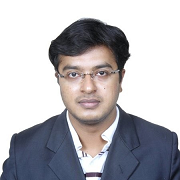
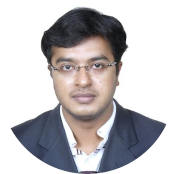
Make self image circular

diff --git a/doc/build/html/searchindex.js b/doc/build/html/searchindex.js
@@ -1,1 +1,1 @@
-Search.setIndex({docnames:["index"],envversion:{"sphinx.domains.c":2,"sphinx.domains.changeset":1,"sphinx.domains.citation":1,"sphinx.domains.cpp":2,"sphinx.domains.index":1,"sphinx.domains.javascript":2,"sphinx.domains.math":2,"sphinx.domains.python":2,"sphinx.domains.rst":2,"sphinx.domains.std":1,sphinx:56},filenames:["index.rst"],objects:{},objnames:{},objtypes:{},terms:{activ:0,administr:0,also:0,amount:0,applic:0,author:[],back:0,backbonej:0,backend:0,baremet:0,basic:0,been:0,complex:0,contribut:0,copyright:[],core:0,design:0,develop:0,devop:0,distribut:0,docker:0,experi:0,frontend:0,gitlab:0,had:0,have:0,implement:0,index:[],initi:0,iron:0,java:0,knowledg:0,kubernet:0,licens:[],like:0,linux:0,modul:[],moreov:0,most:0,mostli:0,opensourc:0,openstack:0,plai:0,project:0,proliantutil:0,provis:0,python:0,rai:[],review:0,role:0,server:0,signific:0,site:[],softwar:0,sometim:0,spent:0,start:0,subproject:0,sushi:0,system:0,time:0,work:0,year:0},titles:["Career Profile"],titleterms:{about:[],career:0,debayan:[],document:[],indic:[],info:0,more:0,page:[],profil:0,project:[],resourc:[],tabl:[],welcom:[]}})
+Search.setIndex({docnames:["index"],envversion:{"sphinx.domains.c":2,"sphinx.domains.changeset":1,"sphinx.domains.citation":1,"sphinx.domains.cpp":2,"sphinx.domains.index":1,"sphinx.domains.javascript":2,"sphinx.domains.math":2,"sphinx.domains.python":2,"sphinx.domains.rst":2,"sphinx.domains.std":1,sphinx:56},filenames:["index.rst"],objects:{},objnames:{},objtypes:{},terms:{activ:0,administr:0,also:0,amount:0,applic:0,author:[],back:0,backbonej:0,backend:0,baremet:0,basic:0,been:0,complex:0,contribut:0,copyright:[],core:0,design:0,develop:0,devop:0,distribut:0,docker:0,experi:0,frontend:0,gitlab:0,had:0,have:0,implement:0,index:[],initi:0,iron:0,java:0,knowledg:0,kubernet:0,licens:[],like:0,linux:0,modul:[],moreov:0,most:0,mostli:0,opensourc:0,openstack:0,plai:0,predominantli:0,project:0,proliantutil:0,provis:0,python:0,rai:[],review:0,role:0,server:0,signific:0,site:[],softwar:0,sometim:0,spent:0,start:0,subproject:0,sushi:0,system:0,time:0,work:0,year:0},titles:["Career Profile"],titleterms:{about:[],career:0,debayan:[],document:[],indic:[],info:0,more:0,page:[],profil:0,project:[],resourc:[],tabl:[],welcom:[]}})

diff --git a/doc/build/html/index.html b/doc/build/html/index.html
@@ -154,17 +154,18 @@
 <h1>Career Profile<a class="headerlink" href="#career-profile" title="Permalink to this headline">¶</a></h1>
 <p>I’m a Software Developer, most of the time I work on software applications
 backend, mostly with <strong>Python</strong> and <strong>Java</strong>.</p>
-<p>I have 15 years of experience in designing and implementing complex and
+<p>I have <strong>15 years of experience</strong> in designing and implementing complex and
 distributed software systems. Also I have a basic knowledge in Linux
 administration/DevOps and work with Kubernetes/Docker and gitlab-ci.</p>
 <p>Sometime back I had also worked on frontend, most of the time with
 <em>BackboneJS</em>.</p>
-<p>I have also spent a significant amount of time contributing to opensource
-software development. Played the role of an active developer and
-<strong>core reviewer</strong> in subprojects, like <a class="reference external" href="https://docs.openstack.org/sushy/latest/">Sushy</a> and <a class="reference external" href="https://docs.openstack.org/ironic/latest/admin/drivers/ilo.html">Proliantutils</a>, of
-<a class="reference external" href="https://docs.openstack.org/ironic/">OpenStack Ironic</a> (<em>Baremetal server provisioning</em>) project.</p>
-<p>Moreover I started my career with C++ and had been with it for the initial 6
-years of my career.</p>
+<p>I have also spent a significant amount of time contributing to <strong>opensource
+software</strong> development (predominantly <strong>Openstack</strong>). Played the role of an
+active developer and <strong>core reviewer</strong> in subprojects, like <a class="reference external" href="https://docs.openstack.org/sushy/latest/">Sushy</a> and
+<a class="reference external" href="https://docs.openstack.org/ironic/latest/admin/drivers/ilo.html">Proliantutils</a>, of <a class="reference external" href="https://docs.openstack.org/ironic/">OpenStack Ironic</a> (<em>Baremetal server provisioning</em>)
+project.</p>
+<p>Moreover I started my career with <em>C++</em> and had been with it for the initial
+6 years of my career.</p>
 <div class="section" id="more-info">
 <h2>More info<a class="headerlink" href="#more-info" title="Permalink to this headline">¶</a></h2>
 <p>…</p>

diff --git a/doc/build/html/_static/documentation_options.js b/doc/build/html/_static/documentation_options.js
@@ -1,6 +1,6 @@
 var DOCUMENTATION_OPTIONS = {
     URL_ROOT: document.getElementById("documentation_options").getAttribute('data-url_root'),
-    VERSION: '0.0.1.dev4',
+    VERSION: '0.0.1.dev5',
     LANGUAGE: 'None',
     COLLAPSE_INDEX: false,
     BUILDER: 'html',

diff --git a/doc/source/index.rst b/doc/source/index.rst
@@ -10,20 +10,21 @@ Career Profile
 I'm a Software Developer, most of the time I work on software applications
 backend, mostly with **Python** and **Java**.
 
-I have 15 years of experience in designing and implementing complex and
+I have **15 years of experience** in designing and implementing complex and
 distributed software systems. Also I have a basic knowledge in Linux
 administration/DevOps and work with Kubernetes/Docker and gitlab-ci.
 
 Sometime back I had also worked on frontend, most of the time with
 *BackboneJS*.
 
-I have also spent a significant amount of time contributing to opensource
-software development. Played the role of an active developer and
-**core reviewer** in subprojects, like `Sushy`_ and `Proliantutils`_, of
-`OpenStack Ironic`_ (*Baremetal server provisioning*) project.
+I have also spent a significant amount of time contributing to **opensource
+software** development (predominantly **Openstack**). Played the role of an
+active developer and **core reviewer** in subprojects, like `Sushy`_ and
+`Proliantutils`_, of `OpenStack Ironic`_ (*Baremetal server provisioning*)
+project.
 
-Moreover I started my career with C++ and had been with it for the initial 6
-years of my career.
+Moreover I started my career with *C++* and had been with it for the initial
+6 years of my career.
 
 .. _Sushy: https://docs.openstack.org/sushy/latest/
 .. _Proliantutils: https://docs.openstack.org/ironic/latest/admin/drivers/ilo.html
